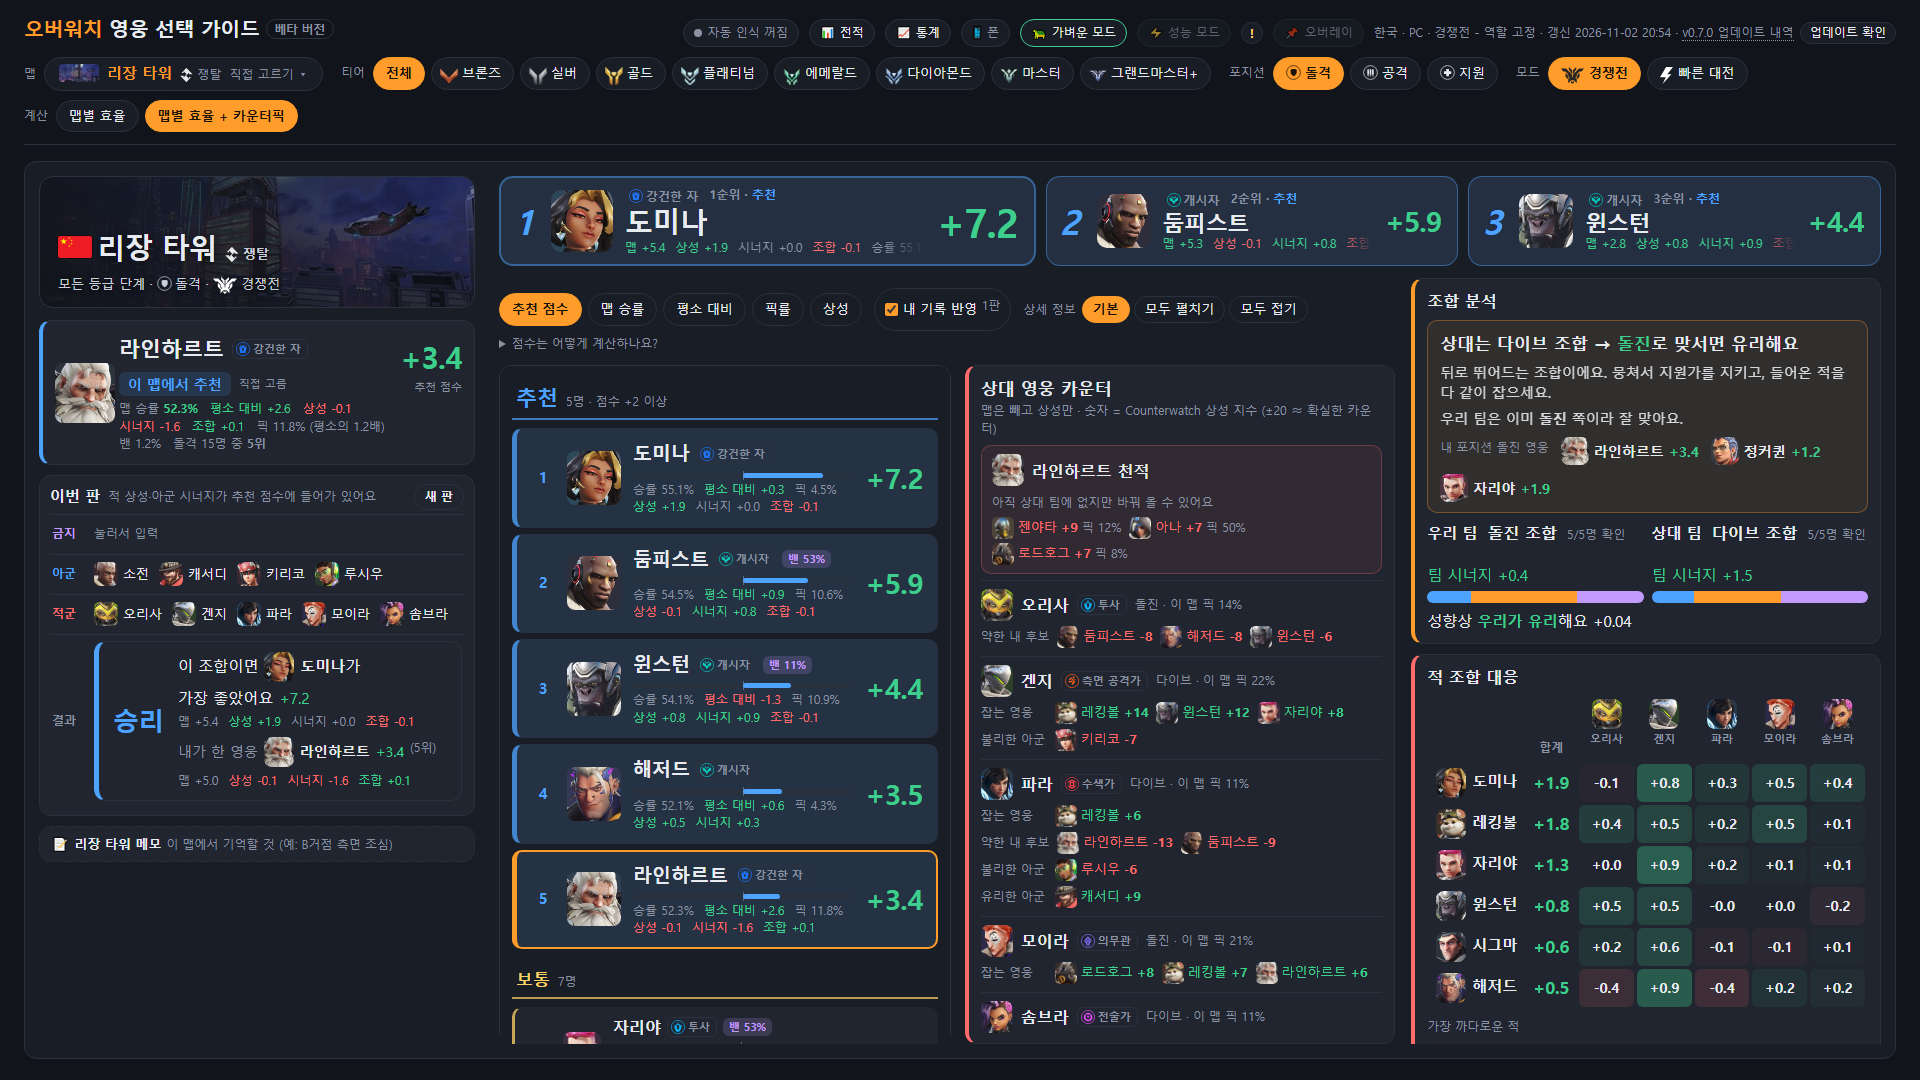
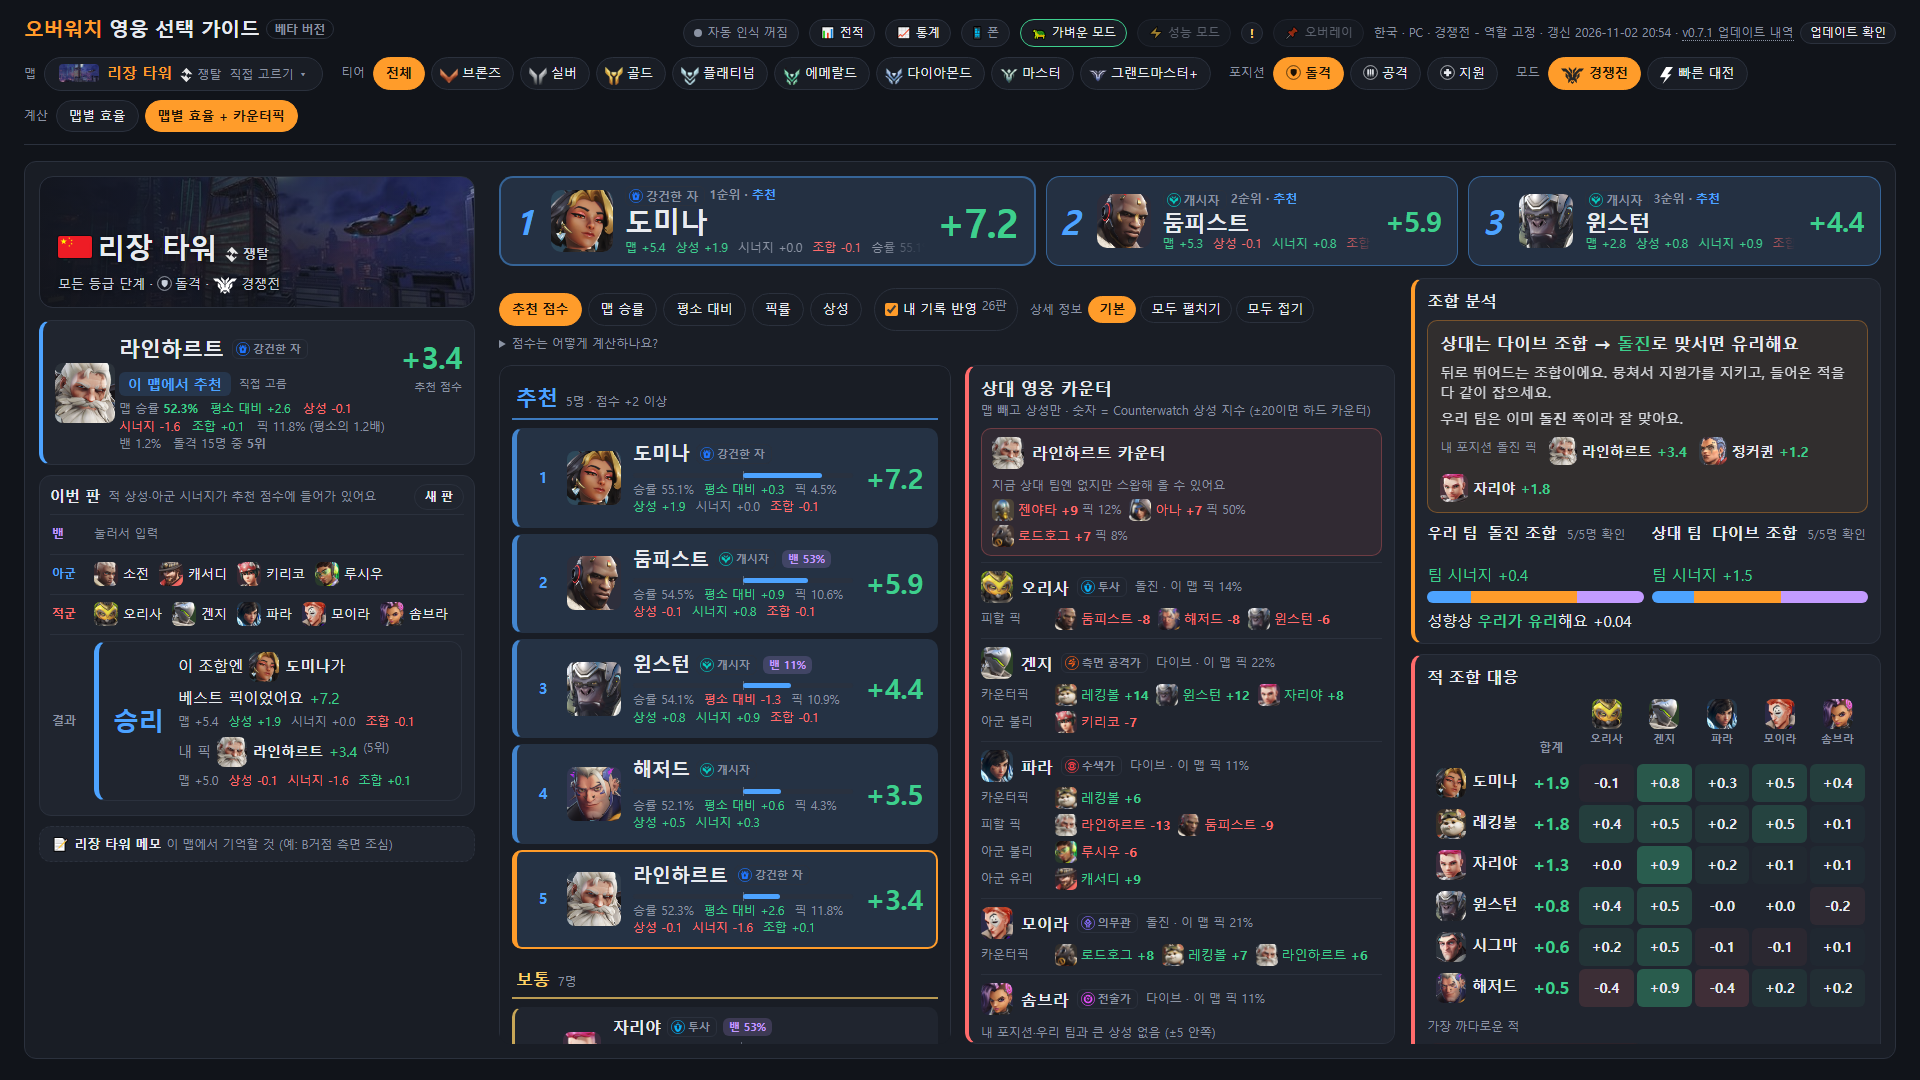
README: 게임 용어로 (밴·카운터픽·피할 픽·스왑), 추천 화면 사진 v0.7.1로

diff --git a/README.md b/README.md
@@ -1,11 +1,11 @@
 # 오버워치 영웅 선택 가이드 (베타 버전)
 
-오버워치 2를 하는 동안 **화면을 읽어서**, 이번 맵·금지 영웅·양 팀 조합에 맞는 영웅을 추천해 주는 개인용 **비공식** 도구예요.
+오버워치 2를 하는 동안 **화면을 읽어서**, 이번 맵·밴·양 팀 조합에 맞는 영웅을 추천해 주는 개인용 **비공식** 도구예요.
 Windows 10/11 64비트 PC에서만 돼요.
 
 ![판 정보가 들어올수록 추천이 바뀌는 모습](docs/match.gif)
 
-<sub>맵이 잡히면 그 맵에서 강한 영웅부터 → 금지 영웅은 빼고 → 아군·적군을 알면 시너지·상성·조합까지 계산해요. (화면은 시험용 판이에요)</sub>
+<sub>맵이 잡히면 그 맵에서 강한 영웅부터 → 밴된 영웅은 빼고 → 아군·적군을 알면 시너지·상성·조합까지 계산해요. (화면은 시험용 판이에요)</sub>
 
 ## 간편 사용자용
 
@@ -23,7 +23,7 @@ Windows 10/11 64비트 PC에서만 돼요.
 
 | | 하는 일 |
 |---|---|
-| 🎯&nbsp;**자동&nbsp;인식** | 선호 영웅·밴 투표·영웅 선택 화면에서 맵과 내 영웅을, 게임 중 **Tab(점수판)** 에서 아군·적군·금지 영웅·등급 범위를 읽어요 |
+| 🎯&nbsp;**자동&nbsp;인식** | 선호 영웅·밴 투표·영웅 선택 화면에서 맵과 내 영웅을, 게임 중 **Tab(점수판)** 에서 아군·적군·밴·등급 범위를 읽어요 |
 | 📈&nbsp;**추천** | 넥슨 공식 통계(맵·티어별) + 상성·시너지(Counterwatch) + 팀 조합(포킹·돌진·다이브) + 내 판 기록으로 점수를 매겨요 |
 | 📌&nbsp;**오버레이** | 게임 위 작은 창에 1~3순위·내 영웅·조합 요령·까다로운 적. **Ctrl+Shift+O** 로 켜고 끄기 |
 | 📱&nbsp;**폰으로&nbsp;보기** | 같은 Wi-Fi의 폰에서 같은 화면을 봐요 |
@@ -36,9 +36,9 @@ Windows 10/11 64비트 PC에서만 돼요.
 ![추천 화면](docs/main.png)
 
 - **맨 위 1~3순위**: 지금 판에서 고르면 좋은 영웅. 점수 옆에 근거(맵·상성·시너지·조합)를 적어 둬요
-- **왼쪽**: 맵, 내 영웅이 이 맵에서 어떤지, 이번 판 금지·아군·적군 (자동으로 채워지고, 눌러서 직접 고칠 수도 있어요)
-- **가운데**: 내 포지션 영웅 전체를 추천 · 보통 · 비추천으로 한 칸에서 스크롤 (추천일수록 크게), 옆에 **상대 영웅 카운터**(적마다 잡는 영웅·약한 내 후보, 상대가 바꿔 올 수 있는 내 영웅의 천적)
-- **오른쪽**: 조합 분석(상대 조합을 이기는 성향과 운영 요령), 적 조합 대응(적마다 누가 강한지, 가장 까다로운 적과 잡는 영웅)
+- **왼쪽**: 맵, 내 영웅이 이 맵에서 어떤지, 이번 판 밴·아군·적군 (자동으로 채워지고, 눌러서 직접 고칠 수도 있어요)
+- **가운데**: 내 포지션 영웅 전체를 추천 · 보통 · 비추천으로 한 칸에서 스크롤 (추천일수록 크게), 옆에 **상대 영웅 카운터**(적마다 카운터픽·피할 픽, 상대가 스왑해 올 수 있는 내 영웅 카운터)
+- **오른쪽**: 조합 분석(상대 조합을 이기는 성향과 운영 요령), 적 조합 대응(적마다 누가 강한지, 가장 까다로운 적과 카운터픽)
 - 노트북처럼 작은 화면도 스크롤 없이 한 화면에 맞춰요
 
 ### 📌 오버레이 — 게임 위 작은 추천 창
